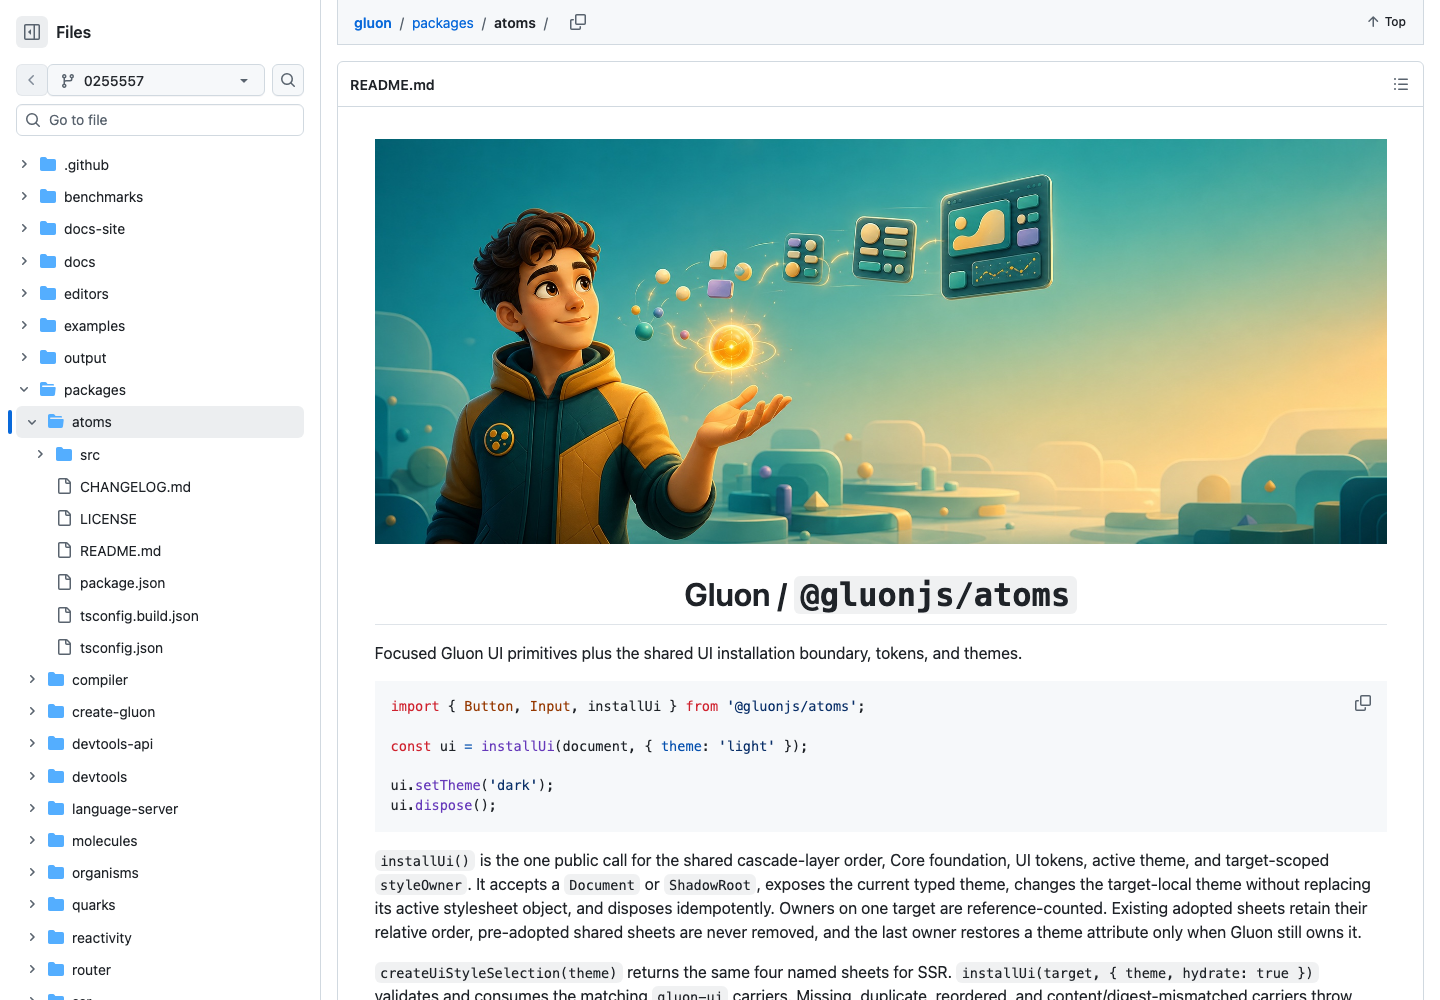
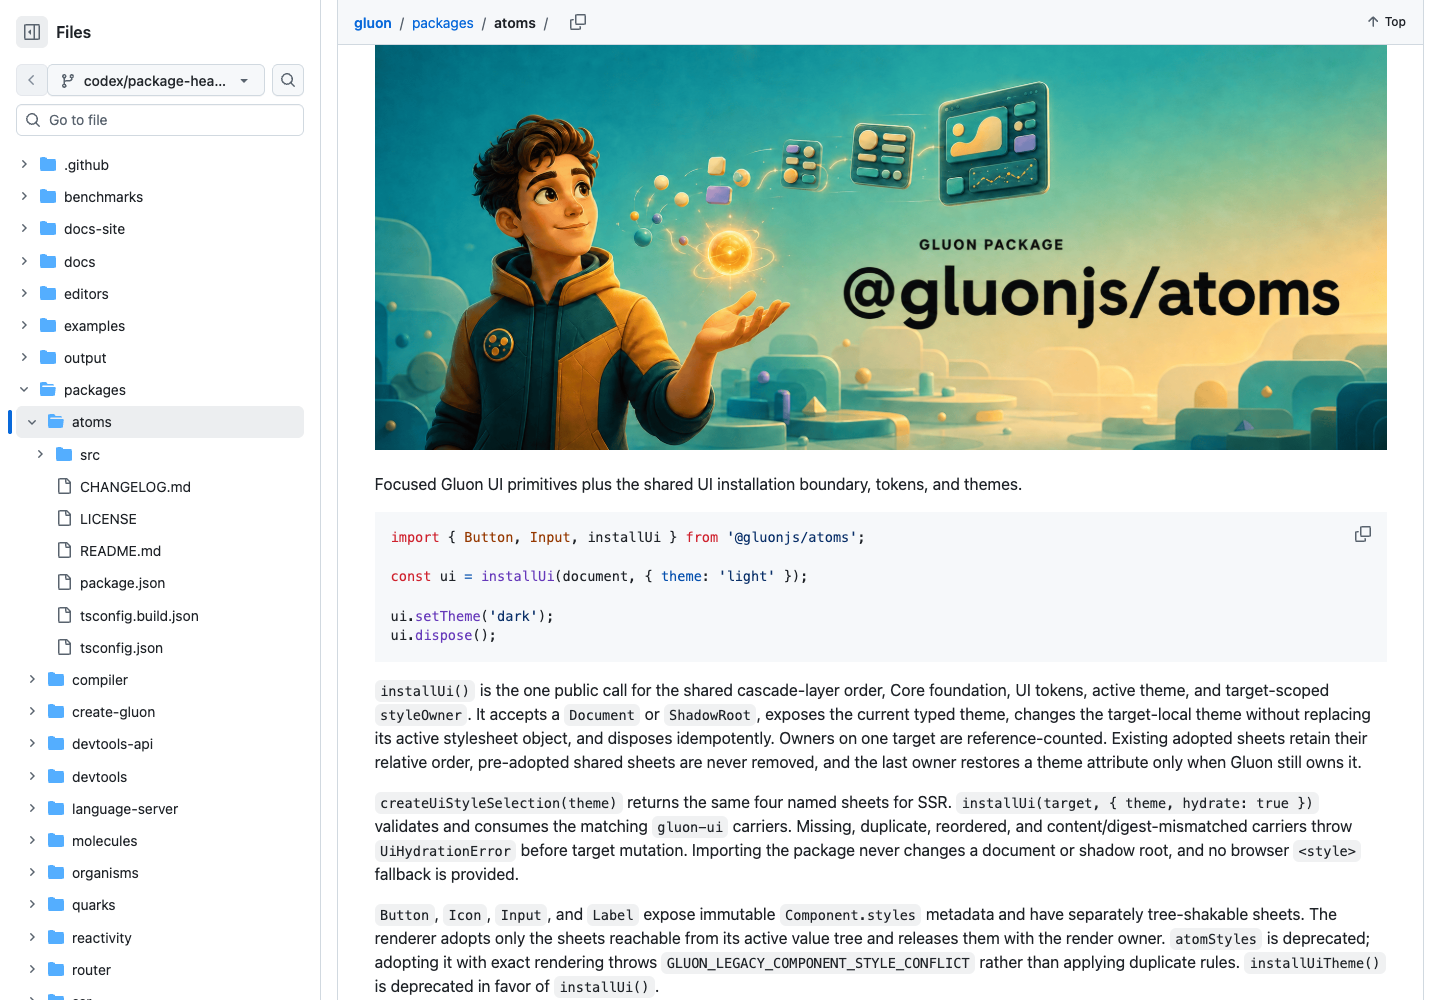
Add package-specific Gluon header artwork (#151)
* docs: add package-specific header artwork

* docs: refresh package header browser evidence

diff --git a/docs/releasing.md b/docs/releasing.md
@@ -26,12 +26,13 @@ tested commit and successful workflow run. Released-state validation instead
 proves that the immutable tag is an ancestor of the current branch and that its
 recorded release-cut changes contain only the two reviewed evidence files.
 
-Every current package README starts with the shared Gluon hero and its exact
-package name. The image uses the absolute `raw.githubusercontent.com` URL for
-`docs/assets/gluon-hero.jpg`, because npm archives contain the README but do not
-ship the repository `docs/` tree. `npm run check:packages` derives the README set
-from `package-contract.json` and rejects missing, duplicated, stale, or wrongly
-named package headers.
+Every current package README starts with its own generated Gluon hero under
+`docs/assets/package-headers/`. The exact package name is part of the raster
+artwork rather than a separate HTML heading. Each README uses an absolute
+`raw.githubusercontent.com` URL because npm archives contain the README but do
+not ship the repository `docs/` tree. `npm run check:packages` derives the asset
+name from `package-contract.json` and rejects missing, duplicated, stale,
+wrongly sized, or wrongly referenced package headers.
 
 The immutable `v1.0.0` tag points to commit
 `8f52b4b98fe9e9f5182973cbf5a0655c879df7ea`. Its Release run

diff --git a/CHANGELOG.md b/CHANGELOG.md
@@ -11,8 +11,8 @@ and released versions follow [Semantic Versioning](https://semver.org/).
 
 - Expanded the component authoring and generated API documentation with
   junior-oriented property, event, lifecycle, and public-class guidance.
-- Standardized every official package README with the shared Gluon hero and
-  its exact package name.
+- Replaced the shared package README hero with 17 generated header images that
+  integrate each exact package name directly into the artwork.
 - Added an explicit released contract state so post-release repository checks
   produce non-publishable development artifacts without weakening strict
   immutable candidate validation.

diff --git a/README.md b/README.md
@@ -1,9 +1,7 @@
 <!-- gluon-package-header:start -->
 <p align="center">
-  <img src="https://raw.githubusercontent.com/marcmalerei/gluon/main/docs/assets/gluon-hero.jpg" alt="Gluon @gluonjs/core — native UI layers growing from a glowing core" width="100%">
+  <img src="https://raw.githubusercontent.com/marcmalerei/gluon/main/docs/assets/package-headers/core.png" alt="@gluonjs/core — Gluon package header" width="100%">
 </p>
-
-<h1 align="center">Gluon / <code>@gluonjs/core</code></h1>
 <!-- gluon-package-header:end -->
 
 <p align="center">

diff --git a/packages/atoms/README.md b/packages/atoms/README.md
@@ -1,9 +1,7 @@
 <!-- gluon-package-header:start -->
 <p align="center">
-  <img src="https://raw.githubusercontent.com/marcmalerei/gluon/main/docs/assets/gluon-hero.jpg" alt="Gluon @gluonjs/atoms — native UI layers growing from a glowing core" width="100%">
+  <img src="https://raw.githubusercontent.com/marcmalerei/gluon/main/docs/assets/package-headers/atoms.png" alt="@gluonjs/atoms — Gluon package header" width="100%">
 </p>
-
-<h1 align="center">Gluon / <code>@gluonjs/atoms</code></h1>
 <!-- gluon-package-header:end -->
 
 Focused Gluon UI primitives plus the shared UI installation boundary, tokens,

diff --git a/packages/compiler/README.md b/packages/compiler/README.md
@@ -1,9 +1,7 @@
 <!-- gluon-package-header:start -->
 <p align="center">
-  <img src="https://raw.githubusercontent.com/marcmalerei/gluon/main/docs/assets/gluon-hero.jpg" alt="Gluon @gluonjs/compiler — native UI layers growing from a glowing core" width="100%">
+  <img src="https://raw.githubusercontent.com/marcmalerei/gluon/main/docs/assets/package-headers/compiler.png" alt="@gluonjs/compiler — Gluon package header" width="100%">
 </p>
-
-<h1 align="center">Gluon / <code>@gluonjs/compiler</code></h1>
 <!-- gluon-package-header:end -->
 
 `@gluonjs/compiler` is Gluon's shared source-location and module-transform

diff --git a/packages/create-gluon/README.md b/packages/create-gluon/README.md
@@ -1,9 +1,7 @@
 <!-- gluon-package-header:start -->
 <p align="center">
-  <img src="https://raw.githubusercontent.com/marcmalerei/gluon/main/docs/assets/gluon-hero.jpg" alt="Gluon create-gluon — native UI layers growing from a glowing core" width="100%">
+  <img src="https://raw.githubusercontent.com/marcmalerei/gluon/main/docs/assets/package-headers/create-gluon.png" alt="create-gluon — Gluon package header" width="100%">
 </p>
-
-<h1 align="center">Gluon / <code>create-gluon</code></h1>
 <!-- gluon-package-header:end -->
 
 `create-gluon` scaffolds supported TypeScript applications that consume only

diff --git a/packages/devtools-api/README.md b/packages/devtools-api/README.md
@@ -1,9 +1,7 @@
 <!-- gluon-package-header:start -->
 <p align="center">
-  <img src="https://raw.githubusercontent.com/marcmalerei/gluon/main/docs/assets/gluon-hero.jpg" alt="Gluon @gluonjs/devtools-api — native UI layers growing from a glowing core" width="100%">
+  <img src="https://raw.githubusercontent.com/marcmalerei/gluon/main/docs/assets/package-headers/devtools-api.png" alt="@gluonjs/devtools-api — Gluon package header" width="100%">
 </p>
-
-<h1 align="center">Gluon / <code>@gluonjs/devtools-api</code></h1>
 <!-- gluon-package-header:end -->
 
 Environment-neutral protocol version 1 for independent Gluon Devtools clients.

diff --git a/packages/devtools/README.md b/packages/devtools/README.md
@@ -1,9 +1,7 @@
 <!-- gluon-package-header:start -->
 <p align="center">
-  <img src="https://raw.githubusercontent.com/marcmalerei/gluon/main/docs/assets/gluon-hero.jpg" alt="Gluon @gluonjs/devtools — native UI layers growing from a glowing core" width="100%">
+  <img src="https://raw.githubusercontent.com/marcmalerei/gluon/main/docs/assets/package-headers/devtools.png" alt="@gluonjs/devtools — Gluon package header" width="100%">
 </p>
-
-<h1 align="center">Gluon / <code>@gluonjs/devtools</code></h1>
 <!-- gluon-package-header:end -->
 
 Gluon Devtools is explicitly opt-in. `createDevtoolsBridge()` defaults to

diff --git a/packages/language-server/README.md b/packages/language-server/README.md
@@ -1,9 +1,7 @@
 <!-- gluon-package-header:start -->
 <p align="center">
-  <img src="https://raw.githubusercontent.com/marcmalerei/gluon/main/docs/assets/gluon-hero.jpg" alt="Gluon @gluonjs/language-server — native UI layers growing from a glowing core" width="100%">
+  <img src="https://raw.githubusercontent.com/marcmalerei/gluon/main/docs/assets/package-headers/language-server.png" alt="@gluonjs/language-server — Gluon package header" width="100%">
 </p>
-
-<h1 align="center">Gluon / <code>@gluonjs/language-server</code></h1>
 <!-- gluon-package-header:end -->
 
 The Gluon language server analyzes imported `html`, `svg`, `css`, and aliased

diff --git a/packages/molecules/README.md b/packages/molecules/README.md
@@ -1,9 +1,7 @@
 <!-- gluon-package-header:start -->
 <p align="center">
-  <img src="https://raw.githubusercontent.com/marcmalerei/gluon/main/docs/assets/gluon-hero.jpg" alt="Gluon @gluonjs/molecules — native UI layers growing from a glowing core" width="100%">
+  <img src="https://raw.githubusercontent.com/marcmalerei/gluon/main/docs/assets/package-headers/molecules.png" alt="@gluonjs/molecules — Gluon package header" width="100%">
 </p>
-
-<h1 align="center">Gluon / <code>@gluonjs/molecules</code></h1>
 <!-- gluon-package-header:end -->
 
 Reusable compositions built only from Core, Quarks, and Atoms.

diff --git a/packages/organisms/README.md b/packages/organisms/README.md
@@ -1,9 +1,7 @@
 <!-- gluon-package-header:start -->
 <p align="center">
-  <img src="https://raw.githubusercontent.com/marcmalerei/gluon/main/docs/assets/gluon-hero.jpg" alt="Gluon @gluonjs/organisms — native UI layers growing from a glowing core" width="100%">
+  <img src="https://raw.githubusercontent.com/marcmalerei/gluon/main/docs/assets/package-headers/organisms.png" alt="@gluonjs/organisms — Gluon package header" width="100%">
 </p>
-
-<h1 align="center">Gluon / <code>@gluonjs/organisms</code></h1>
 <!-- gluon-package-header:end -->
 
 Larger Gluon interface structures. The package is optional and depends only

diff --git a/packages/quarks/README.md b/packages/quarks/README.md
@@ -1,9 +1,7 @@
 <!-- gluon-package-header:start -->
 <p align="center">
-  <img src="https://raw.githubusercontent.com/marcmalerei/gluon/main/docs/assets/gluon-hero.jpg" alt="Gluon @gluonjs/quarks — native UI layers growing from a glowing core" width="100%">
+  <img src="https://raw.githubusercontent.com/marcmalerei/gluon/main/docs/assets/package-headers/quarks.png" alt="@gluonjs/quarks — Gluon package header" width="100%">
 </p>
-
-<h1 align="center">Gluon / <code>@gluonjs/quarks</code></h1>
 <!-- gluon-package-header:end -->
 
 Typed native-element factories and headless interaction primitives. The package